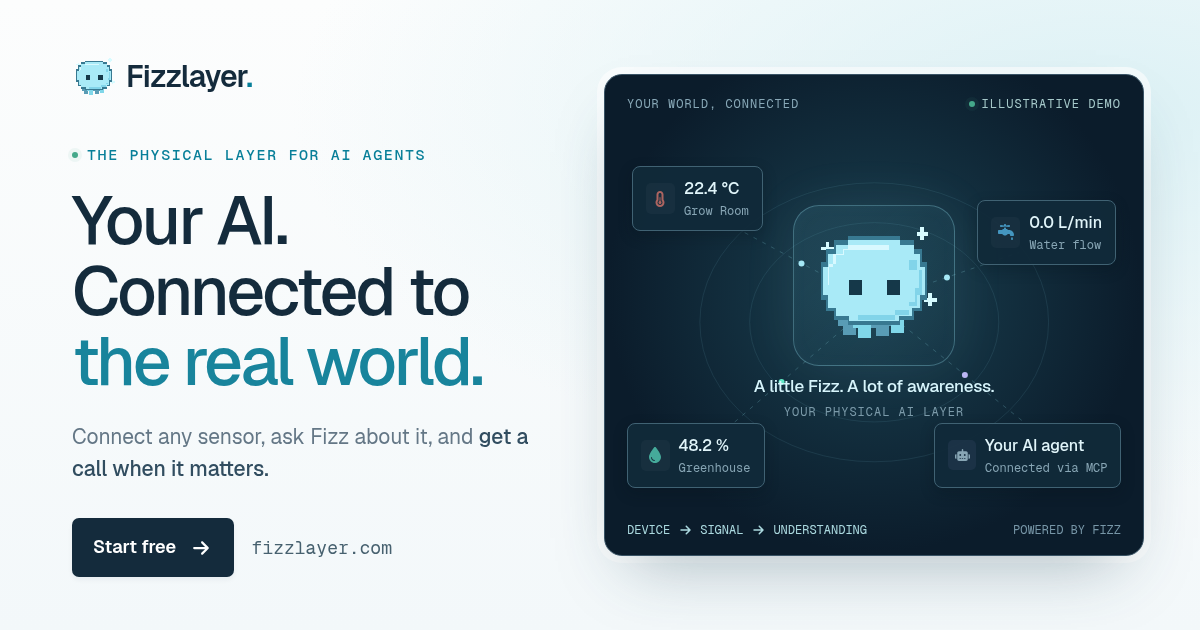
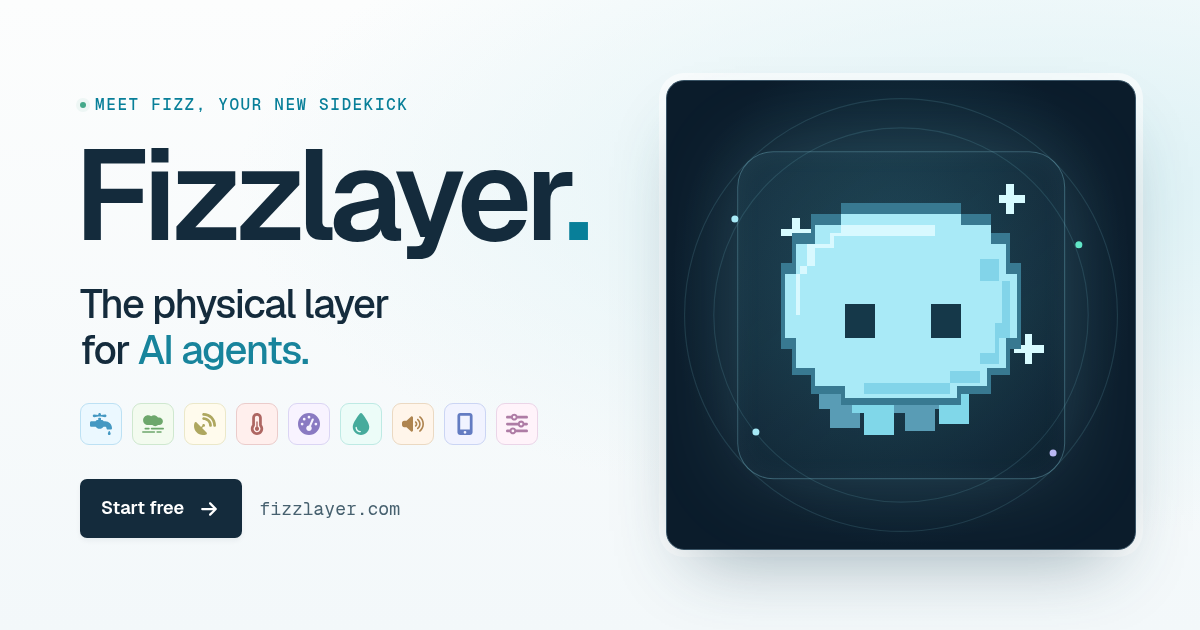
Bring back the big wordmark and mascot on the social card
The card returns to the old layout's large Fizzlayer name, the "The
physical layer for AI agents" tagline, the row of nine sensor icons, and
a large Fizz. It keeps the current site style: light background, Geist
type, the teal accent, the soft sensor badges from the workspace, and
the dark hero panel around Fizz.

diff --git a/tools/og/card.html b/tools/og/card.html
@@ -9,51 +9,47 @@
     <script src="/sensor-kinds.js"></script>
     <style>
       html, body { width: 1200px; height: 630px; margin: 0; overflow: hidden; }
-      body { color: var(--ink); background: radial-gradient(ellipse at 92% 18%, #dcf1f5 0, transparent 52%), linear-gradient(#fcfdfd, #f3f8fa); }
+      body { color: var(--ink); background: radial-gradient(ellipse at 88% 30%, #dcf1f5 0, transparent 55%), linear-gradient(#fcfdfd, #f3f8fa); }
       *, *::before, *::after { animation: none !important; transition: none !important; }
-      .card { display: grid; grid-template-columns: 1fr 540px; align-items: center; gap: 44px; height: 100%; padding: 0 56px 0 72px; box-sizing: border-box; }
-      .wordmark { display: flex; align-items: center; gap: 10px; color: var(--ink); font-size: 30px; font-weight: 600; letter-spacing: -.8px; text-decoration: none; }
-      .wordmark img { width: 44px; height: 44px; image-rendering: pixelated; }
-      .wordmark .brand-dot { color: var(--accent); }
-      .eyebrow-label { margin: 42px 0 18px; font-size: 15px; }
-      h1 { margin: 0; font-family: var(--display); font-size: 68px; font-weight: 500; line-height: 1.04; letter-spacing: -2.8px; }
-      h1 span { color: #18849c; }
-      .pitch { margin: 24px 0 0; max-width: 470px; color: var(--muted); font-size: 21px; line-height: 1.5; }
-      .pitch strong { font-weight: 500; color: #314d60; }
+      .card { display: grid; grid-template-columns: 1fr 470px; align-items: center; gap: 40px; height: 100%; padding: 0 64px 0 80px; box-sizing: border-box; }
+      .eyebrow-label { margin: 0 0 14px; font-size: 16px; }
+      h1 { margin: 0 0 0 -6px; font-family: var(--display); font-size: 128px; font-weight: 600; line-height: 1; letter-spacing: -6px; }
+      h1 .brand-dot { color: var(--accent); }
+      .tagline { margin: 22px 0 0; font-family: var(--display); font-size: 40px; font-weight: 500; line-height: 1.15; letter-spacing: -1.4px; }
+      .tagline span { color: #18849c; }
+      .kinds { display: flex; gap: 10px; margin-top: 30px; }
+      .kind-badge { display: inline-grid; place-items: center; width: 42px; height: 42px; background: color-mix(in srgb, var(--sensor-color) 12%, white); border: 1px solid color-mix(in srgb, var(--sensor-color) 28%, #e3ebf0); border-radius: 9px; color: color-mix(in srgb, var(--sensor-color) 65%, #183e52); }
+      .kind-badge svg { width: 22px; height: 22px; fill: currentColor; }
       .cta { display: flex; align-items: center; gap: 18px; margin-top: 34px; }
       .cta .button { gap: 13px; padding: 14px 20px; font-size: 18px; pointer-events: none; }
       .cta .url { color: #47616f; font: 18px var(--mono); }
-      .world-visual { padding: 0; }
-      .world-frame { box-shadow: 0 30px 65px -25px #22495a60, 0 0 0 7px #fff9; }
+      .world-frame { aspect-ratio: 1; box-shadow: 0 34px 70px -28px #22495a70, 0 0 0 7px #fff9; }
+      .world-lines { inset: 0; width: 100%; height: 100%; }
+      .world-lines .orbit { stroke: #81d0de26; }
+      .world-core { top: 50%; left: 50%; width: 70%; transform: translate(-50%, -50%); border-radius: 36px; box-shadow: 0 0 90px #a9eaf726, inset 0 0 28px #a9eaf70d; }
+      .world-core img { width: 92%; }
     </style>
   </head>
   <body>
     <div class="card">
       <div>
-        <span class="wordmark"><img src="/fizz-agent.svg" alt=""><span>Fizzlayer<span class="brand-dot">.</span></span></span>
-        <p class="eyebrow-label"><span class="status-dot" aria-hidden="true"></span> The physical layer for AI agents</p>
-        <h1>Your AI.<br>Connected to<br><span>the real world.</span></h1>
-        <p class="pitch">Connect any sensor, ask Fizz about it, and <strong>get a call when it matters.</strong></p>
+        <p class="eyebrow-label"><span class="status-dot" aria-hidden="true"></span> Meet Fizz, your new sidekick</p>
+        <h1>Fizzlayer<span class="brand-dot">.</span></h1>
+        <p class="tagline">The physical layer<br>for <span>AI agents.</span></p>
+        <div class="kinds" id="kinds"></div>
         <div class="cta"><span class="button button-dark">Start free <span class="fa-arrow fa-arrow-right" aria-hidden="true"></span></span><span class="url">fizzlayer.com</span></div>
       </div>
-      <div class="world-visual">
-        <div class="world-frame">
-          <div class="world-topline"><span>YOUR WORLD, CONNECTED</span><span><span class="status-dot" aria-hidden="true"></span> ILLUSTRATIVE DEMO</span></div>
-          <svg class="world-lines" viewBox="0 0 500 400" aria-hidden="true">
-            <ellipse class="orbit" cx="250" cy="190" rx="175" ry="140"/><ellipse class="orbit" cx="250" cy="190" rx="125" ry="100"/>
-            <path class="connection" d="M120 100 250 170 395 120 M110 290 250 170 400 290"/>
-            <circle cx="177" cy="131" r="3" fill="#a9eaf7"/><circle cx="323" cy="145" r="3" fill="#a9eaf7"/><circle cx="157" cy="250" r="3" fill="#5ee6c4"/><circle cx="341" cy="243" r="3" fill="#bcb7f4"/>
-          </svg>
-          <div class="world-core"><img src="/fizz-agent.svg" alt=""></div>
-          <div class="core-label">A little Fizz. A lot of awareness.<small>Your physical AI layer</small></div>
-          <div class="signal-node signal-temp" data-signal="temperature"><span><strong>22.4 °C</strong>Grow Room</span></div>
-          <div class="signal-node signal-water" data-signal="water"><span><strong>0.0 L/min</strong>Water flow</span></div>
-          <div class="signal-node signal-humidity" data-signal="humidity"><span><strong>48.2 %</strong>Greenhouse</span></div>
-          <div class="signal-node signal-agent"><span class="agent-symbol" aria-hidden="true"><span class="fa fa-robot"></span></span><span><strong>Your AI agent</strong>Connected via MCP</span></div>
-          <div class="visual-bottom"><span>DEVICE <span class="fa-arrow fa-arrow-right" aria-hidden="true"></span> SIGNAL <span class="fa-arrow fa-arrow-right" aria-hidden="true"></span> UNDERSTANDING</span><span>POWERED BY FIZZ</span></div>
-        </div>
+      <div class="world-frame">
+        <svg class="world-lines" viewBox="0 0 400 400" aria-hidden="true">
+          <circle class="orbit" cx="200" cy="200" r="185"/><circle class="orbit" cx="200" cy="200" r="160"/>
+          <circle cx="58" cy="118" r="3" fill="#a9eaf7"/><circle cx="352" cy="140" r="3" fill="#5ee6c4"/><circle cx="330" cy="318" r="3" fill="#bcb7f4"/><circle cx="76" cy="300" r="3" fill="#a9eaf7"/>
+        </svg>
+        <div class="world-core"><img src="/fizz-agent.svg" alt=""></div>
       </div>
     </div>
-    <script>for (const s of document.querySelectorAll('[data-signal]')) s.prepend(window.fizzKinds.badge(s.dataset.signal));</script>
+    <script>
+      const kinds = document.getElementById('kinds');
+      for (const kind of ['water', 'gas', 'radio', 'temperature', 'pressure', 'humidity', 'sound', 'phone', 'custom']) kinds.append(window.fizzKinds.badge(kind));
+    </script>
   </body>
 </html>

diff --git a/public/index.html b/public/index.html
@@ -11,10 +11,10 @@
     <meta property="og:url" content="https://fizzlayer.com/">
     <meta property="og:title" content="Fizzlayer | The physical layer for AI agents">
     <meta property="og:description" content="Connect any sensor, ask about it in plain English, and get a call when something goes wrong. Start free.">
-    <meta property="og:image" content="https://fizzlayer.com/og.png?v=816696efce06">
+    <meta property="og:image" content="https://fizzlayer.com/og.png?v=34dedd6fc6c3">
     <meta property="og:image:width" content="1200">
     <meta property="og:image:height" content="630">
-    <meta property="og:image:alt" content="Fizzlayer: Your AI. Connected to the real world. Beside the headline, Fizz the pixel mascot sits at the center of a dark panel linking a temperature, water flow, and humidity sensor to an AI agent over MCP.">
+    <meta property="og:image:alt" content="The Fizzlayer name in large type with the tagline “The physical layer for AI agents”, a row of nine sensor icons, and Fizz, the pixel-art mascot, glowing in a dark panel.">
     <meta name="twitter:card" content="summary_large_image">
     <link rel="icon" href="/fizz-agent.svg" type="image/svg+xml">
     <link rel="preconnect" href="https://fonts.googleapis.com">
@@ -60,7 +60,7 @@
             "applicationCategory": "DeveloperApplication",
             "operatingSystem": "Web, Linux",
             "description": "Connect sensors, phones, and Linux devices to AI agents. See readings in a live dashboard, ask Fizz about them in plain English, and get alerts and phone calls when something goes wrong. Agents connect through MCP and WebMCP.",
-            "image": "https://fizzlayer.com/og.png?v=816696efce06",
+            "image": "https://fizzlayer.com/og.png?v=34dedd6fc6c3",
             "publisher": {
               "@id": "https://fizzlayer.com/#organization"
             },
